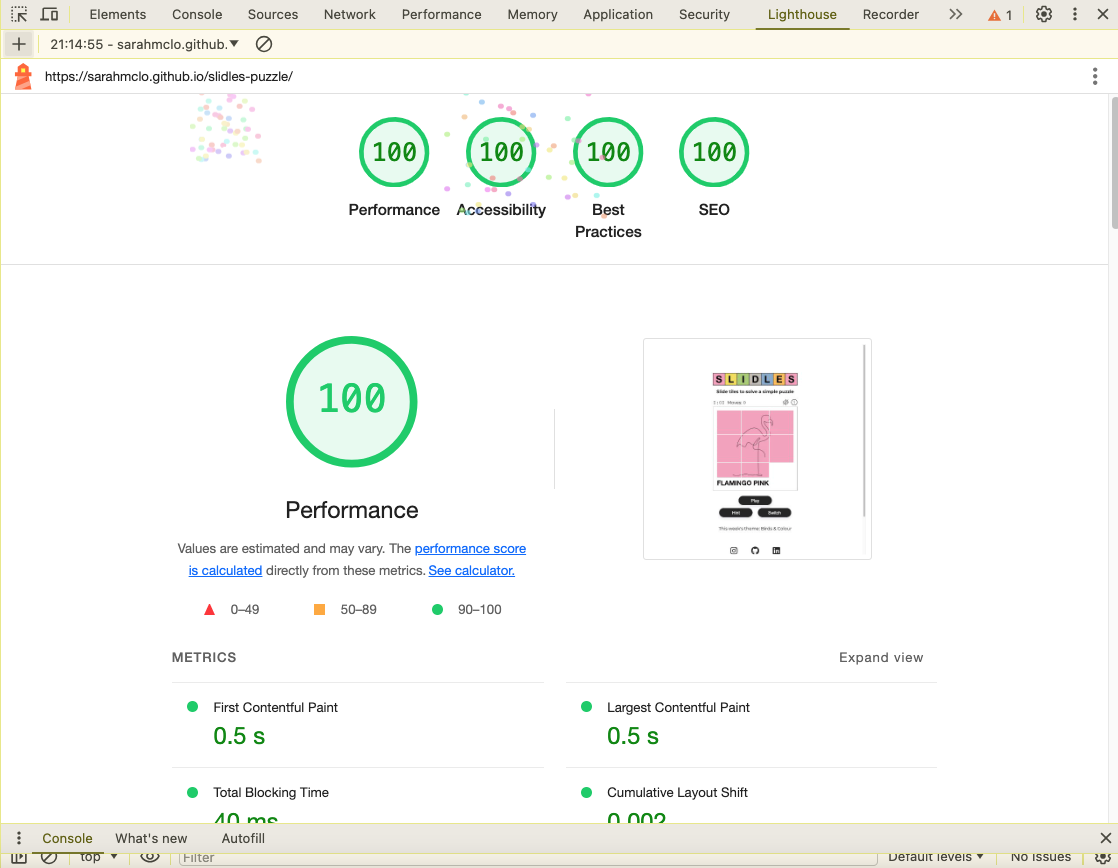
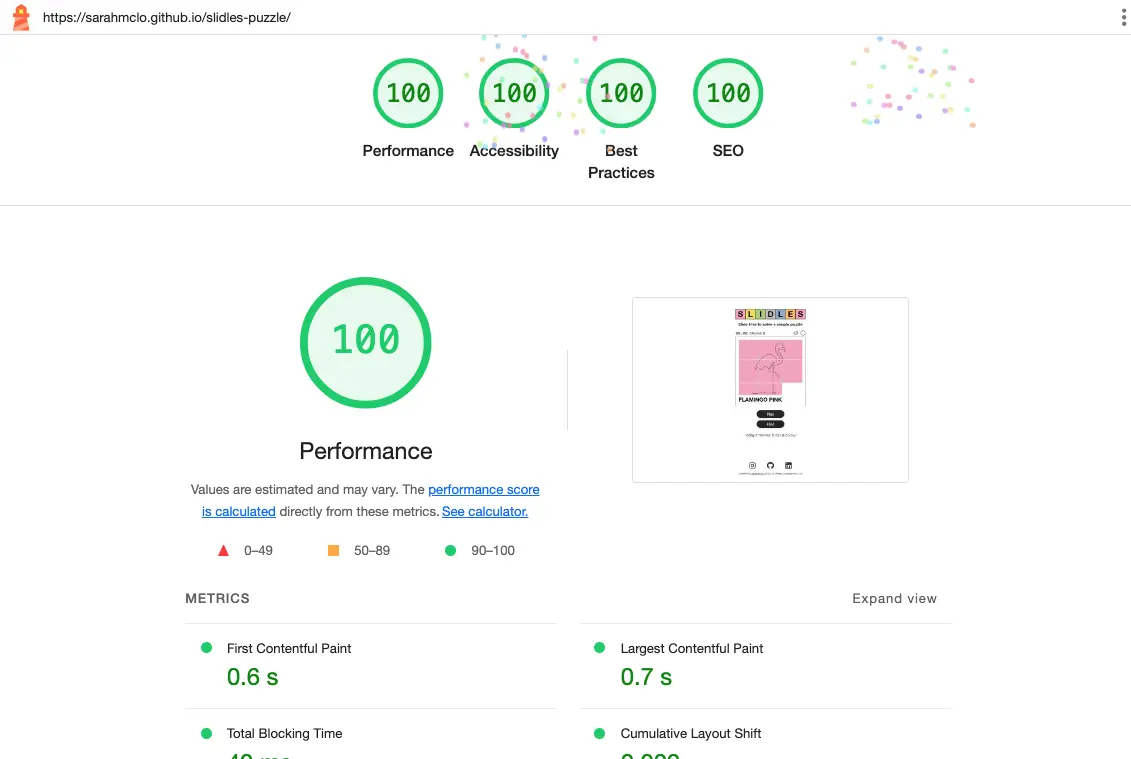
Update lighthouse and validation testing in readme, redo shields.io badges in readme

diff --git a/404.html b/404.html
@@ -26,7 +26,7 @@
     <section>
         <div class="error-container">
         </div>
-        <div><img class="error-image" src="assets/images/slidles-404.png" alt="Slidles logo letters replaced by numbers 404"></div>
+        <div><img class="error-image" src="assets/images/slidles-404.png" alt="Slidles logo letters replaced by numbers 404">
         </div>
         <div class="error-text">
             <h1>Oops!<br>Page Not Found</h1>

diff --git a/README.md b/README.md
@@ -336,10 +336,12 @@ To contribute or check the code, you can:
 
 ### Validation Testing
 ## HTML
-![markup-validation](docs/bugs/html-markup-validation.webp)
+![markup-validation-index](docs/bugs/html-markup-validation.webp)
+
+![markup-validation-404](docs/bugs/404-markup-validation.webp)
 
 ## CSS
-![css-validation](docs/bugs/css.validation.webp)
+![css-validation](docs/bugs/css-validation.webp)
 
 ## Javascript
 ![javascript-testing](docs/bugs/jshint-val-fix.webp)
